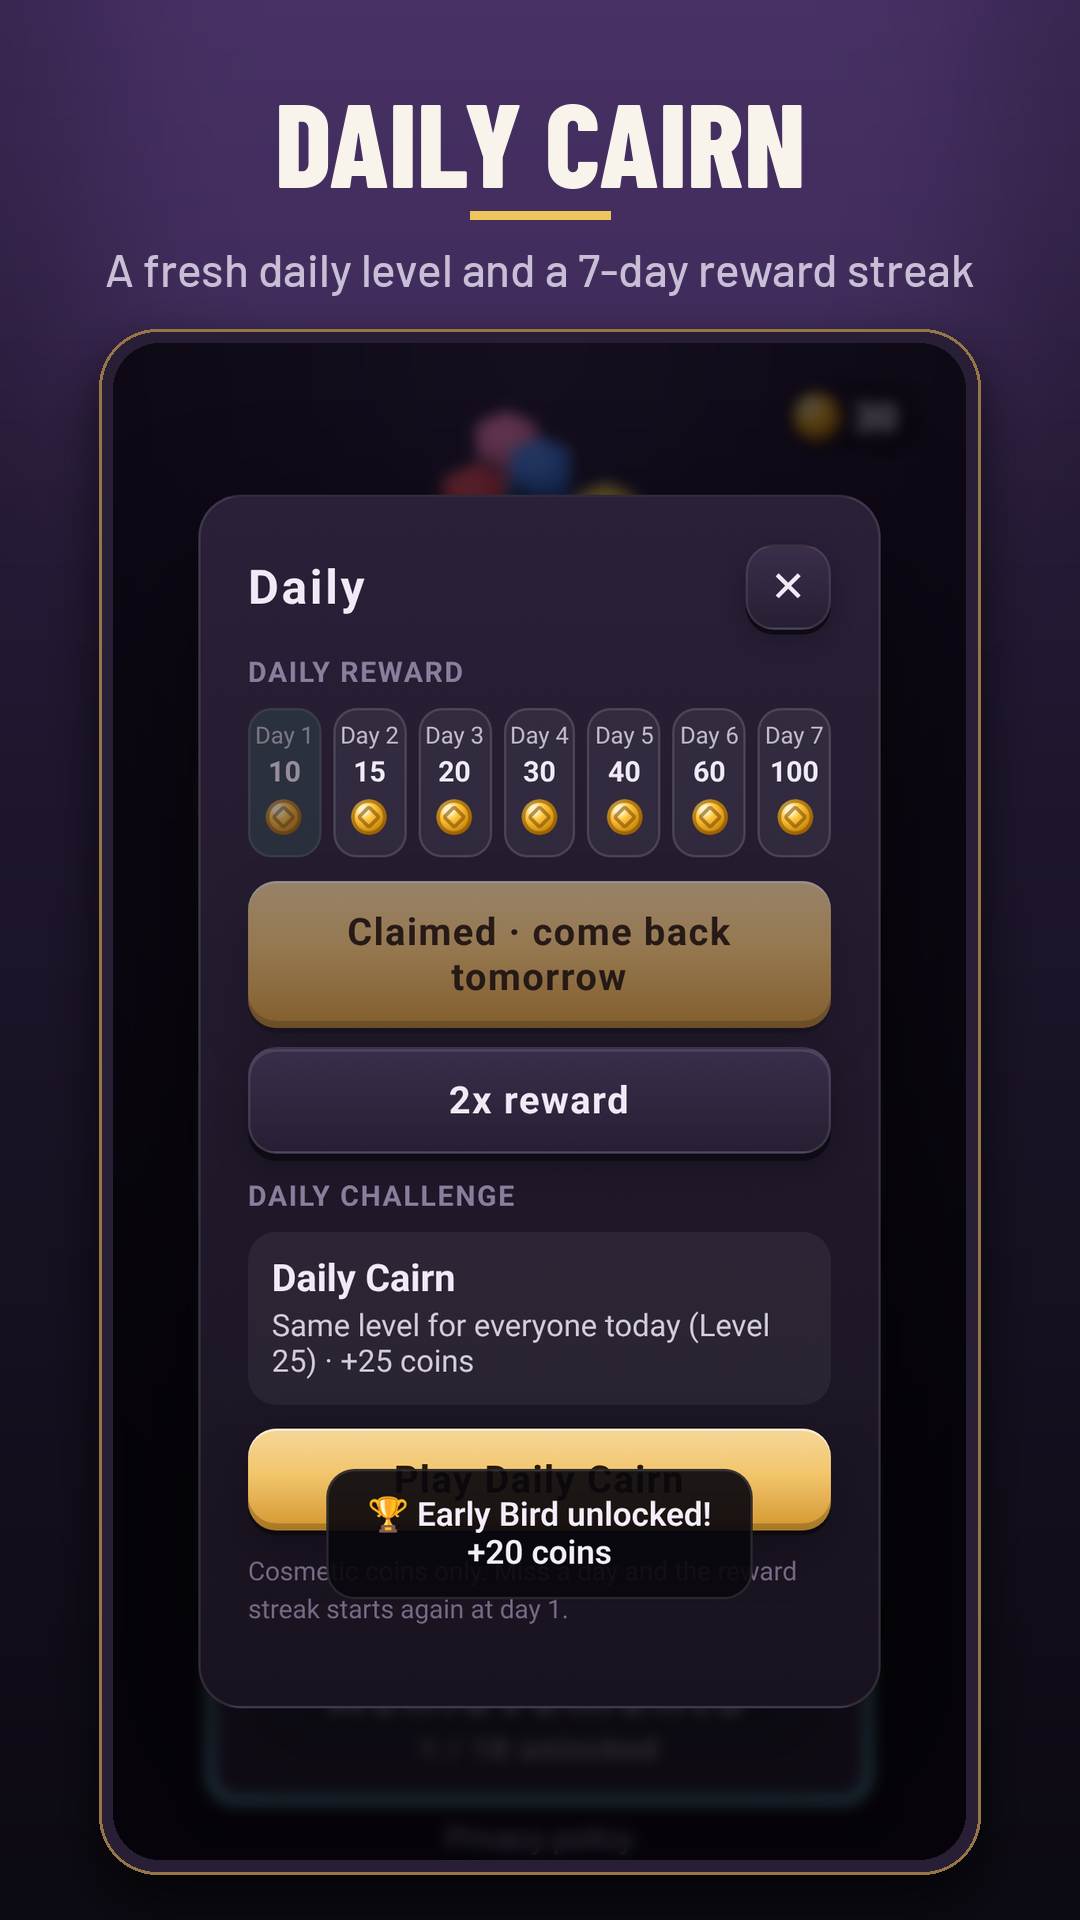
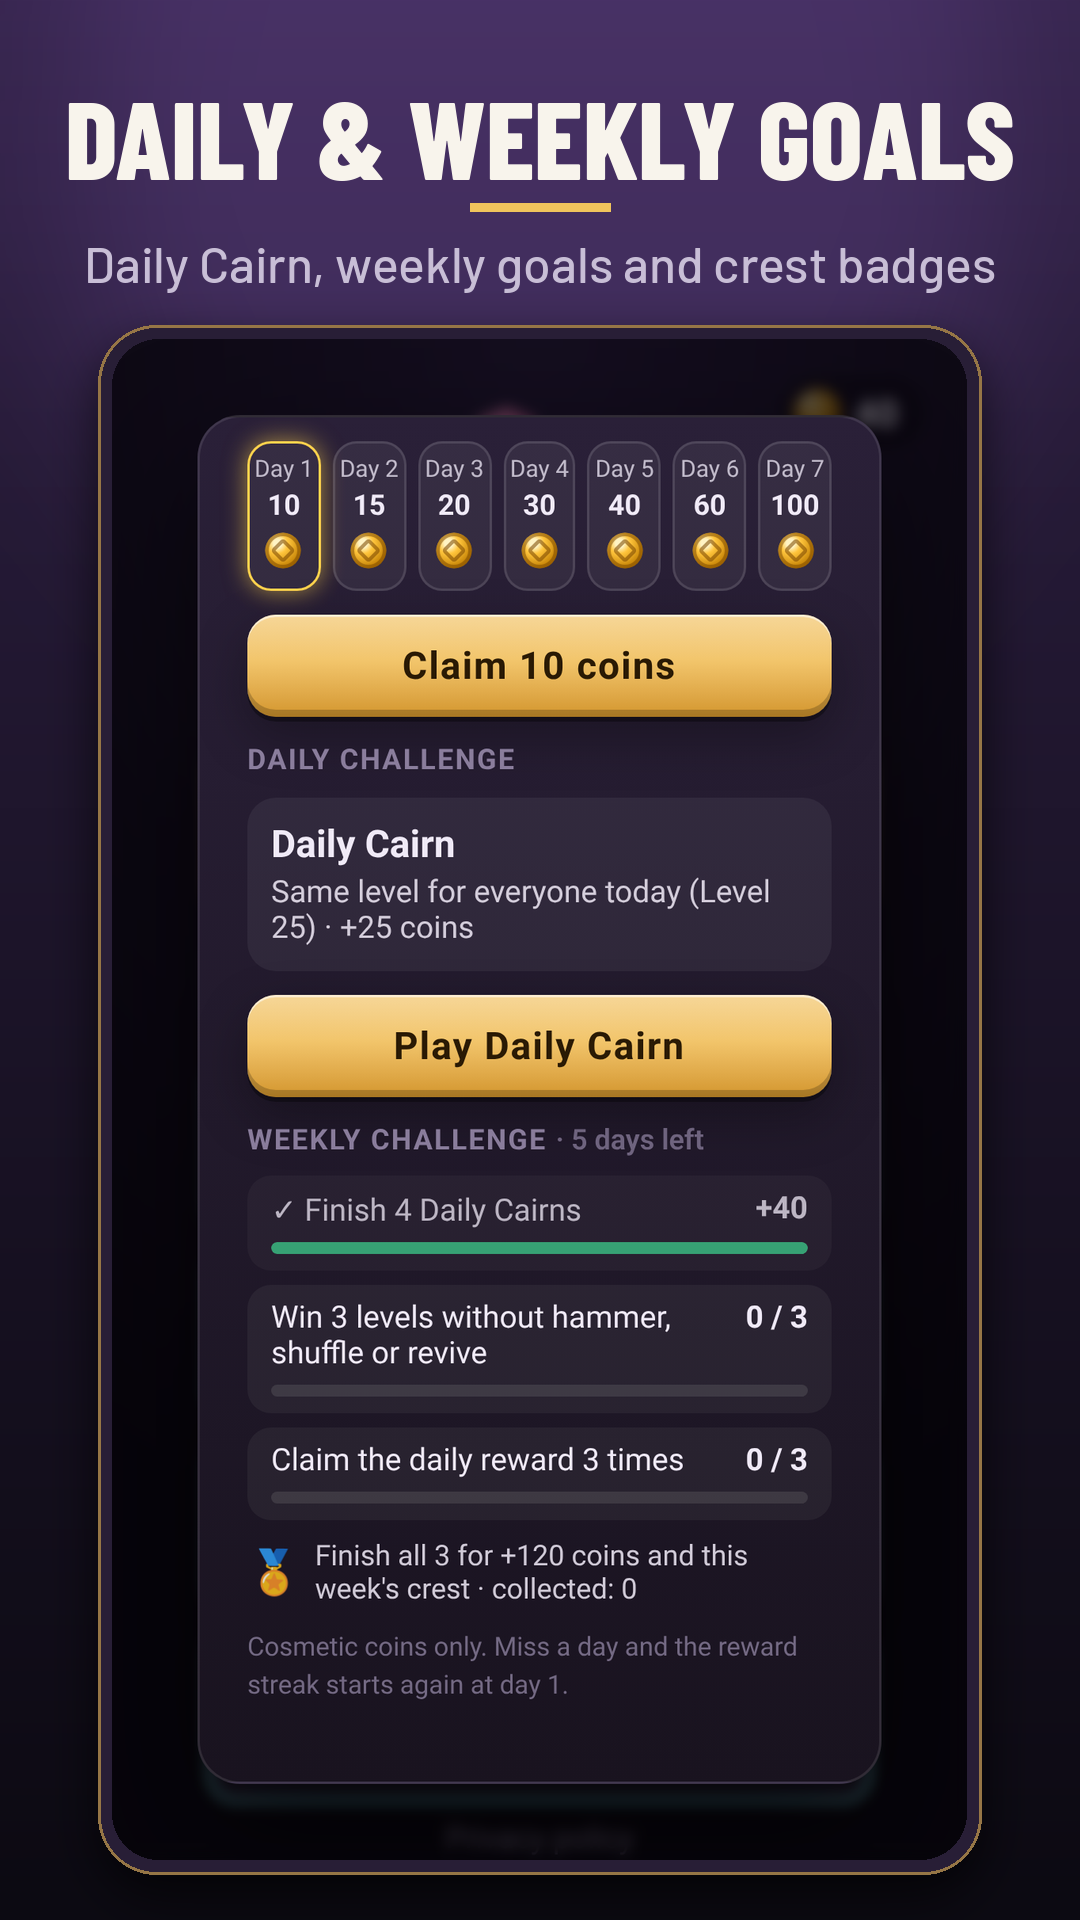
v1.9.0: screen-reader labels + non-drag placement, accessible theme preview, sudoku top bar fix, refreshed store kit

Changed region(s): [[0.1833, 0.2188, 0.825, 0.9062], [0.0611, 0.0312, 0.9472, 0.2188], [0.8861, 0.1875, 0.9167, 0.2188]]

diff --git a/www/js/game.js b/www/js/game.js
@@ -164,7 +164,7 @@
       hexPath(c, x, y, s * 0.99); c.strokeStyle = 'rgba(255,255,255,' + (0.25 + 0.3 * th.gloss) + ')'; c.lineWidth = Math.max(1, s * 0.05); c.stroke();
       hexPath(c, x, y - s * 0.02, s * 0.56);
       c.fillStyle = 'rgba(255,255,255,' + (0.08 + 0.12 * th.gloss) + ')'; c.fill();
-      if (opts.mark && save.settings.marks) drawMark(c, x, y, s, opts.ci);
+      if (opts.mark && (window.A11y ? window.A11y.marksOn(save.settings) : save.settings.marks)) drawMark(c, x, y, s, opts.ci);
     }
   }
   function drawMark(c, x, y, s, ci) {
@@ -263,6 +263,7 @@
   }
   function render(now) {
     if (!G || $('game').classList.contains('hidden')) return;
+    srSync();
     var c = ctx;
     c.setTransform(DPR, 0, 0, DPR, 0, 0);
     c.clearRect(0, 0, W, H);
@@ -440,6 +441,55 @@
         if (k < 1) requestAnimationFrame(step); else res();
       })(t0);
     });
+  }
+  // ---------------- screen-reader board (v1.9) ----------------
+  // Invisible, pointer-transparent buttons over the canvas so TalkBack/keyboard users can
+  // pick a tray stack, then an empty cell. Rebuilt only when the board or layout changes.
+  var srBox = null, srSig = '', srSlot = -1;
+  function srColors(stack) {
+    var out = [], i = stack.length - 1;
+    while (i >= 0) { var col = stack[i], n = 0; while (i >= 0 && stack[i] === col) { n++; i--; } out.push(n + ' ' + window.SR.COLORS[col % window.SR.COLORS.length]); }
+    return out.join(', then ');
+  }
+  function srSync() {
+    if (!window.SR || !G) return;
+    if (!srBox) {
+      srBox = document.createElement('div'); srBox.className = 'sr-grid'; srBox.id = 'hx-sr';
+      srBox.setAttribute('role', 'group'); srBox.setAttribute('aria-label', 'Hex board and tray');
+      $('stage').appendChild(srBox); cv.setAttribute('aria-hidden', 'true');
+    }
+    var sig = [W, H, srSlot, busy ? 1 : 0, JSON.stringify(G.stacks), JSON.stringify(G.tray), G.blocked.join('')].join('|');
+    if (sig === srSig) return; srSig = sig;
+    var focusedId = document.activeElement && document.activeElement.parentNode === srBox ? document.activeElement.dataset.k : null;
+    srBox.innerHTML = '';
+    function btn(k, x, y, label, fn) {
+      var b = document.createElement('button'); b.type = 'button'; b.dataset.k = k;
+      b.style.left = x + 'px'; b.style.top = y + 'px'; b.setAttribute('aria-label', label); b.textContent = label;
+      b.addEventListener('click', function (e) { e.preventDefault(); fn(); });
+      srBox.appendChild(b); if (k === focusedId) setTimeout(function () { b.focus(); }, 0);
+    }
+    for (var s = 0; s < 3; s++) (function (s) {
+      var st = G.tray[s], p = slotXY(s);
+      btn('t' + s, p.x, p.y - 10, 'Tray stack ' + (s + 1) + ': ' + (st ? st.length + ' tiles, top ' + srColors(st) : 'used') + (srSlot === s ? ', selected' : ''), function () {
+        if (!st || busy || G.won || G.lost) return;
+        srSlot = s; SFX.pick(); window.SR.say('Stack ' + (s + 1) + ' selected. Now choose an empty cell.'); srSync();
+      });
+    })(s);
+    var lay = L.makeLayout(G.R);
+    for (var i = 0; i < lay.size; i++) (function (i) {
+      if (G.blocked[i]) return;
+      var p = cellXY(i), st = G.stacks[i];
+      btn('c' + i, p.x, p.y, 'Cell ' + (i + 1) + ': ' + (st.length ? st.length + ' tiles, top ' + srColors(st) : 'empty'), function () {
+        if (busy || G.won || G.lost) return;
+        if (srSlot < 0 || !G.tray[srSlot]) { window.SR.say(st.length ? 'Occupied. Pick a tray stack first.' : 'Pick a tray stack first.'); return; }
+        if (st.length) { SFX.error(); window.SR.say('That cell is occupied.'); return; }
+        var s = srSlot; srSlot = -1;
+        Promise.resolve(commit(s, i, null)).then(function () {
+          var pr = document.querySelector('#game .progress span');
+          window.SR.say('Placed on cell ' + (i + 1) + '.' + (pr ? ' Progress ' + pr.textContent + '.' : '')); srSync();
+        });
+      });
+    })(i);
   }
   async function commit(slot, cell, from) {
     busy = true;
@@ -847,6 +897,7 @@
   window.__weekly = weekly;
 
   // ---------------- boot ----------------
+  if (window.A11y && window.A11y.previewBar) window.A11y.previewBar({ settings: save.settings, marks: true, rerender: function () { drawLogo(); requestRender(); if (typeof renderShop === 'function') renderShop(); }, sfx: function () { SFX.click(); } });
   if (window.A11y) window.A11y.apply(save.settings);
   SFX.setEnabled(save.settings.sound);
   if (validGame(save.game)) G = save.game;

diff --git a/www/js/a11y.js b/www/js/a11y.js
@@ -40,6 +40,38 @@
     });
   };
   A.sync = function (settings, ids) { A.apply(settings); Object.keys(ids).forEach(function (k) { var el = document.getElementById(ids[k]); if (el) el.checked = k === 'reduceMotion' ? A.reduced() : !!settings[k]; }); };
+
+  /**
+   * v1.9 shop preview: "Preview with" chips (High contrast / Larger text / Symbols) in the shop panel.
+   * Temporary only: nothing is saved, and the real settings are restored when the shop closes.
+   */
+  A.preview = { contrast: null, largeText: null, marks: null };
+  A.marksOn = function (settings) { return A.preview.marks != null ? A.preview.marks : !!(settings && settings.marks); };
+  A.previewBar = function (o) {
+    var ov = document.getElementById(o.overlay || 'shop'); if (!ov) return null;
+    var panel = ov.querySelector('.panel'), anchor = panel.querySelector('.note');
+    var bar = document.createElement('div'); bar.className = 'a11y-preview'; bar.setAttribute('role', 'group'); bar.setAttribute('aria-label', 'Preview themes with accessibility options');
+    bar.innerHTML = '<span class="a11y-preview-l">Preview with:</span>';
+    var chips = [['contrast', 'High contrast'], ['largeText', 'Larger text']].concat(o.marks ? [['marks', 'Symbols']] : []);
+    function cur(k) { return A.preview[k] != null ? A.preview[k] : !!o.settings[k]; }
+    function paint() {
+      var cl = document.documentElement.classList;
+      cl.toggle('a11y-contrast', cur('contrast')); cl.toggle('a11y-large', cur('largeText'));
+      if (o.marks) document.body.classList.toggle('marks', cur('marks'));
+      Array.prototype.forEach.call(bar.querySelectorAll('button'), function (b) { var on = cur(b.dataset.k); b.classList.toggle('on', on); b.setAttribute('aria-pressed', on ? 'true' : 'false'); });
+    }
+    chips.forEach(function (c) {
+      var b = document.createElement('button'); b.type = 'button'; b.className = 'chip'; b.dataset.k = c[0]; b.textContent = c[1];
+      b.addEventListener('click', function () { A.preview[c[0]] = !cur(c[0]); paint(); if (o.rerender) o.rerender(); if (o.sfx) o.sfx(); });
+      bar.appendChild(b);
+    });
+    if (anchor && anchor.nextSibling) panel.insertBefore(bar, anchor.nextSibling); else panel.appendChild(bar);
+    function reset() { A.preview = { contrast: null, largeText: null, marks: null }; A.apply(o.settings); if (o.marks) document.body.classList.toggle('marks', !!o.settings.marks); if (o.rerender) o.rerender(); paint(); }
+    new MutationObserver(function () { if (ov.classList.contains('hidden')) { if (A.preview.contrast != null || A.preview.largeText != null || A.preview.marks != null) reset(); } else paint(); })
+      .observe(ov, { attributes: true, attributeFilter: ['class'] });
+    paint();
+    return { reset: reset, paint: paint };
+  };
   if (typeof Element !== 'undefined' && Element.prototype.animate && !Element.prototype.animate.__a11y) {
     var orig = Element.prototype.animate;
     var wrapped = function (frames, opts) {

diff --git a/test/v19.test.js b/test/v19.test.js
@@ -1,0 +1,16 @@
+const assert = require('assert'), fs = require('fs'), dir = __dirname + '/../www/';
+const SR = require('../www/js/sr.js');
+assert.strictEqual(SR.assistive({ type: 'click', detail: 0 }), true, 'keyboard/TalkBack click');
+assert.strictEqual(SR.assistive({ type: 'click', detail: 1 }), false, 'real tap is not assistive');
+assert.strictEqual(SR.assistive({ type: 'pointerdown', detail: 0 }), false);
+const A = require('../www/js/a11y.js');
+assert.strictEqual(typeof A.previewBar, 'function');
+assert.strictEqual(A.marksOn({ marks: true }), true); A.preview.marks = false; assert.strictEqual(A.marksOn({ marks: true }), false, 'preview overrides'); A.preview.marks = null;
+const html = fs.readFileSync(dir + 'index.html', 'utf8'), game = fs.readFileSync(dir + 'js/game.js', 'utf8'), css = fs.readFileSync(dir + 'css/style.css', 'utf8');
+assert(html.indexOf('js/sr.js') > 0 && html.indexOf('js/sr.js') < html.indexOf('js/game.js'));
+assert(/previewBar\(/.test(game) && css.includes('.sr-only') && css.includes('.a11y-preview'));
+const name = fs.realpathSync(__dirname);
+if (/hexa-sort/.test(name)) assert(/function srSync/.test(game) && /cv\.setAttribute\('aria-hidden'/.test(game), 'hexa canvas has an accessible overlay');
+if (/block-puzzle/.test(name)) assert(/srSlotActivate/.test(game) && /'Piece ' \+ \(i \+ 1\)/.test(game), 'block tray pieces are labelled + activatable');
+if (/sudoku/.test(name)) { assert(/'Row ' \+ \(L\.ROW\[i\] \+ 1\)/.test(game), 'sudoku cells labelled'); assert(!/b\.daily::before/.test(css), 'top bar no longer prefixes Daily'); }
+console.log('v1.9 tests ok');

diff --git a/www/css/style.css b/www/css/style.css
@@ -341,3 +341,13 @@ html.a11y-contrast :is(.note, .daily-note, small, .muted) { opacity: 1 !importan
 html.a11y-contrast :focus-visible { outline: 3px solid #ffd400 !important; outline-offset: 2px; }
 html.a11y-contrast .overlay { background: rgba(0,0,0,.78); }
 html.a11y-contrast body { --muted: var(--txt); }
+/* Screen-reader helpers (v1.9) */
+.sr-only { position: absolute !important; width: 1px; height: 1px; padding: 0; margin: -1px; overflow: hidden; clip: rect(0 0 0 0); white-space: nowrap; border: 0; }
+.sr-grid { position: absolute; inset: 0; pointer-events: none; z-index: 2; }
+.sr-grid button { position: absolute; width: 44px; height: 44px; transform: translate(-50%, -50%); background: transparent; border: 0; padding: 0; color: transparent; font-size: 1px; }
+.sr-grid button:focus-visible, .slot:focus-visible, #board .cell:focus-visible { outline: 3px solid #ffd400; outline-offset: 2px; border-radius: 8px; }
+.slot.sr-sel { outline: 3px dashed #ffd400; outline-offset: -3px; border-radius: 12px; }
+.a11y-preview { display: flex; flex-wrap: wrap; align-items: center; gap: 6px; margin: 2px 0 8px; font-size: 12px; }
+.a11y-preview-l { opacity: .75; font-weight: 700; }
+.a11y-preview .chip { padding: 5px 10px; border-radius: 999px; border: 1px solid rgba(127,127,127,.45); background: rgba(127,127,127,.12); font-size: 12px; font-weight: 700; color: inherit; }
+.a11y-preview .chip.on { background: #ffd400; color: #1a1400; border-color: #ffd400; }

diff --git a/www/js/sr.js b/www/js/sr.js
@@ -1,0 +1,22 @@
+/* Screen-reader helpers (v1.9): polite live region + "is this an assistive/keyboard activation?" */
+(function (root) {
+  'use strict';
+  var live = null, t = null;
+  var SR = {
+    say: function (msg) {
+      if (typeof document === 'undefined' || !msg) return;
+      if (!live) {
+        live = document.getElementById('sr-live');
+        if (!live) { live = document.createElement('div'); live.id = 'sr-live'; live.className = 'sr-only'; live.setAttribute('aria-live', 'polite'); live.setAttribute('role', 'status'); document.body.appendChild(live); }
+      }
+      clearTimeout(t); live.textContent = '';
+      t = setTimeout(function () { live.textContent = msg; }, 60);
+    },
+    /** TalkBack double-tap and keyboard Enter/Space produce clicks with detail 0 (no real pointer) */
+    assistive: function (e) { return !!e && e.type === 'click' && !e.detail; },
+    COLORS: ['red', 'orange', 'yellow', 'green', 'teal', 'blue', 'purple', 'pink', 'cyan', 'lime'],
+    last: function () { return live ? live.textContent : ''; }
+  };
+  root.SR = SR;
+  if (typeof module !== 'undefined' && module.exports) module.exports = SR;
+})(typeof window !== 'undefined' ? window : globalThis);

diff --git a/www/index.html b/www/index.html
@@ -136,7 +136,7 @@
           <button id="btn-replay-tutorial" class="btn plate" type="button">Replay tutorial</button>
           <button id="btn-reset" class="btn plate danger">Reset progress</button>
         </div>
-        <p class="ver">Hexcairn v1.8.0 · © OfferPk</p>
+        <p class="ver">Hexcairn v1.9.0 · © OfferPk</p>
       </div>
     </div>
 
@@ -166,6 +166,7 @@
   <script src="js/sound.js"></script>
   <script src="js/themes.js"></script>
   <script src="js/a11y.js"></script>
+  <script src="js/sr.js"></script>
   <script src="js/daily.js"></script>
   <script src="js/weekly.js"></script>
   <script src="js/weekly-goals.js"></script>

diff --git a/store/make_store_art.py b/store/make_store_art.py
@@ -21,8 +21,8 @@ CAPTIONS = [
     ('04', '4-glacier', '500+ WINNABLE LEVELS', 'Every level is checked by a simulator'),
     ('05', '7-shop', 'SLEEK THEMES', 'Glacier, Ember, Aurora & more. Cosmetic only'),
     ('06', '5-aurora', 'PLAY OFFLINE, NO TIMER', 'Think, drop, relax. Progress saves itself'),
-    ('07', 'v15-daily', 'DAILY CAIRN', 'A fresh daily level and a 7-day reward streak'),
-    ('08', 'v15-ach', 'ACHIEVEMENTS & STATS', '18 goals to chase. Track your progress'),
+    ('07', 'v19-weekly', 'DAILY & WEEKLY GOALS', 'Daily Cairn, weekly goals and crest badges'),
+    ('08', 'v19-a11y', 'BUILT FOR EVERYONE', 'Color symbols, high contrast, screen reader'),
 ]
 
 

diff --git a/store/LISTING-v1.9.md b/store/LISTING-v1.9.md
@@ -1,0 +1,77 @@
+# Store listing v1.9.0: Hexcairn: Hexa Stack Sort (English, en-US)
+
+Package: `com.offerpk.hexasort` · Version 1.9.0 (versionCode 12). Supersedes `LISTING-v1.5.md` (app name unchanged).
+
+## Short description (limit 80)
+
+**78 / 80 characters**
+
+```
+Drop hex stacks, merge colors, chain clears. Daily level and rewards. Offline.
+```
+
+## Full description (limit 4000)
+
+**2107 / 4000 characters** (Python `len()`; bullets count as 1)
+
+```
+Hexcairn is a sleek hexa stack sorting puzzle. Drop stacks of hexagon tiles on the board, watch matching colors slide together, and merge 10 of a kind to clear them in satisfying chain reactions.
+
+HOW TO PLAY
+• Drag a stack from the tray onto an empty hex
+• Matching colors on touching hexes slide together automatically
+• Merge 10 tiles of one color to clear them and score
+• Reach the target score to win the level
+
+COME BACK EVERY DAY
+• A Daily Cairn level that is the same for everyone, plus a 7-day reward calendar
+• Rising coin rewards for a 7-day streak (miss a day and it restarts)
+• Daily challenge streaks
+
+WEEKLY CHALLENGE
+• Three new goals every week, the same for every player
+• Earn coins and collect a crest badge for each completed week, shown in your Achievements
+• A gentle mid-week reminder on the Daily card (never a notification)
+
+ACHIEVEMENTS & STATS
+• 18 achievements for progress, skill, streaks, daily challenges and collecting
+• Stats: games played, best results, coins earned and your longest play streak
+
+SKIN SHOP
+• 12 hex palettes (Basalt, Glacier, Lagoon, Ember, Sandstone, Jade Temple, Synthwave, Aurora, Night Orchard, Cobalt Kiln, Rosewood, Nightfall Mint) and backgrounds
+• Preview before you buy. Everything is cosmetic and bought with coins you earn in the game
+• No real-money purchases, no loot boxes, no cash-out
+
+MADE FOR RELAXING
+• Plays fully offline
+• Friendly first-level tutorial (replay it any time from Settings)
+• Sound and haptics toggles, see Accessibility below
+
+ACCESSIBILITY
+• Reduce motion (follows your phone setting, or choose yourself)
+• Larger text and a high-contrast mode
+• Color symbols on every piece for color-blind players
+• Screen-reader support: the board and tray are fully labelled, and you can place stacks without dragging (select a stack, then a hex)
+• Preview shop themes with these options turned on before you buy
+
+ADS
+The game is free and shows ads. Optional rewarded ads play only when you tap a button (for example a hint or a free 24-hour skin try). Full-screen ads only appear between finished games or levels, never at launch.
+```
+
+## What's new (release notes, limit 500)
+
+```
+New: weekly challenge with collectible crests, a crest showcase in Achievements, and accessibility options (reduce motion, larger text, high contrast, color symbols). Better screen-reader support and new shop themes. Preview themes with accessibility options on.
+```
+
+## Graphics in this folder
+
+| Asset | File | Size |
+|---|---|---|
+| Phone screenshots (8) | `store/screenshots/01.png` … `08.png` | 1080×1920 each |
+| Feature graphic | `store/feature-graphic-1024x500.png` | 1024×500 |
+| App icon | `store/icon-512.png` | 512×512 (see `ICON-CHECK.md`) |
+
+Screenshots 07 (daily + weekly goals) and 08 (accessibility options on) are new in v1.9.0; 01–06 are unchanged.
+
+Data safety: no change from `DATA-SAFETY-v1.5.md` (weekly goals, crests and accessibility settings are stored on the device only).
